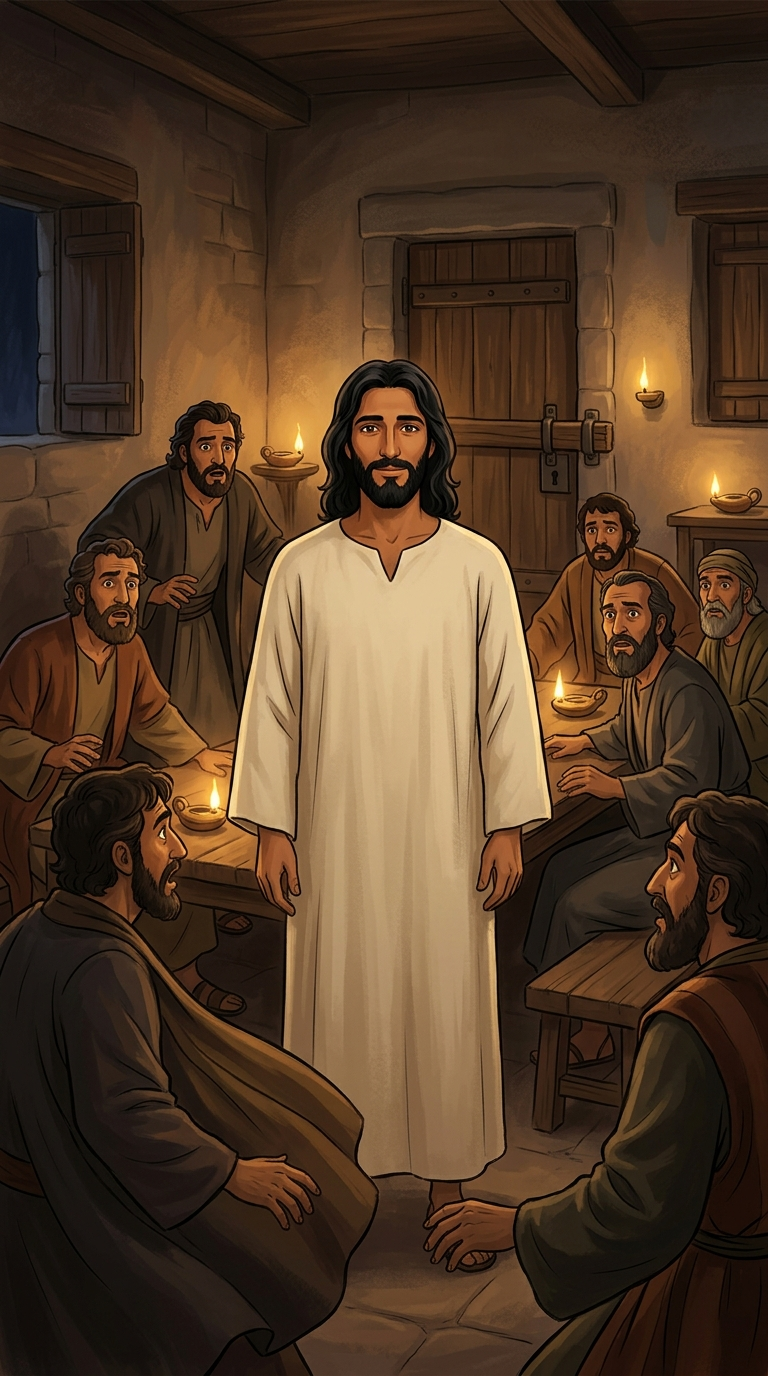
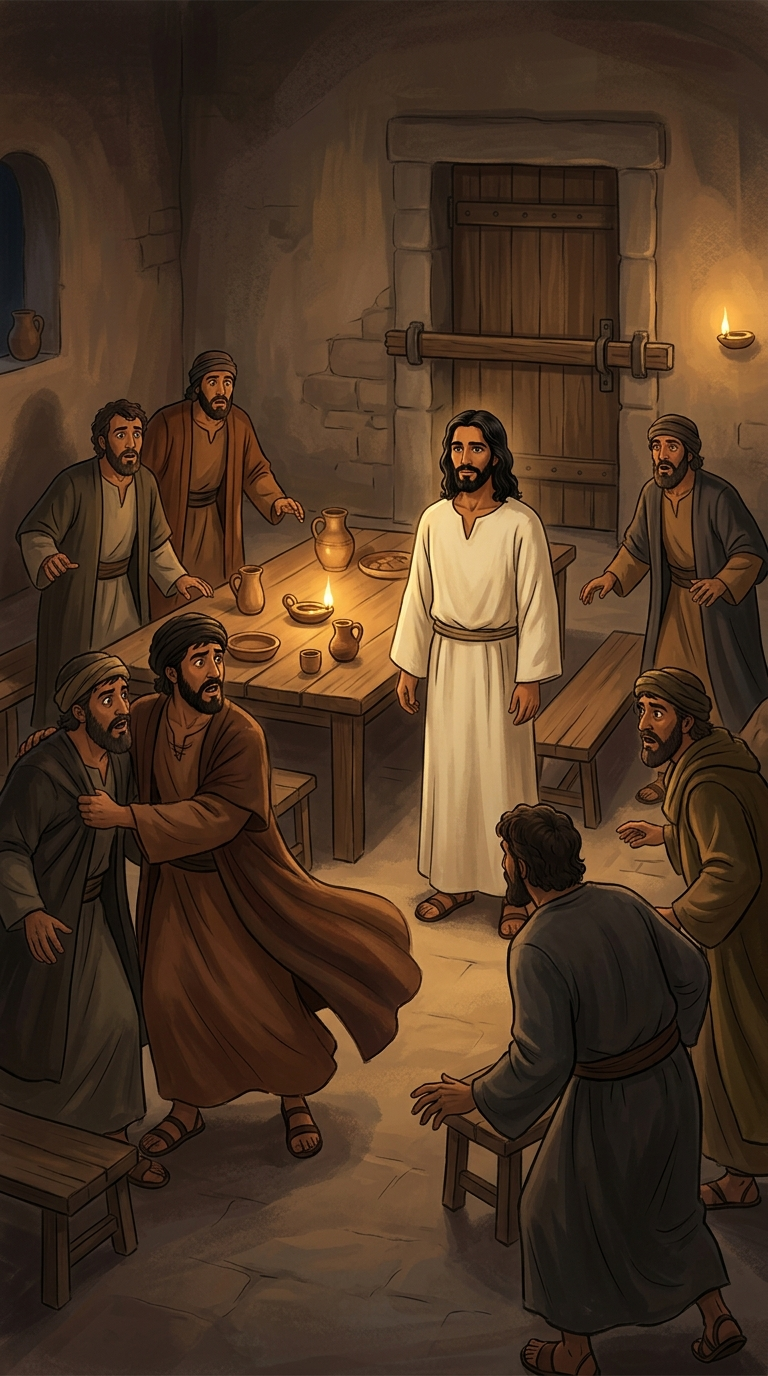
STILLS #99 flesh-and-bone-thomas DONE: Thomas on-model (s1 eleven, s6 reach-hither, s7 my-lord-and-my-god) + Jesus locked; struck from worklist; tool: fast 'twelve' group ref (Machine C)

diff --git a/media-production/regen_shot.py b/media-production/regen_shot.py
@@ -87,6 +87,11 @@ def shot_block(text, slug):
 
 
 def ref_paths(slug):
+    # "twelve" -> the single group portrait of the Twelve (fast: 1 ref for a whole
+    # background group instead of 2-3 per named disciple).
+    if slug in ("twelve", "the-twelve"):
+        g = CASTREF / "the-twelve.jpeg"
+        return [g] if g.is_file() else []
     # Direct variant/character folder (e.g. aged-john, risen-jesus, infant-jesus)
     # that character_refs doesn't register — use its sheet jpegs directly.
     direct = HERE / "CHARACTERS" / slug
